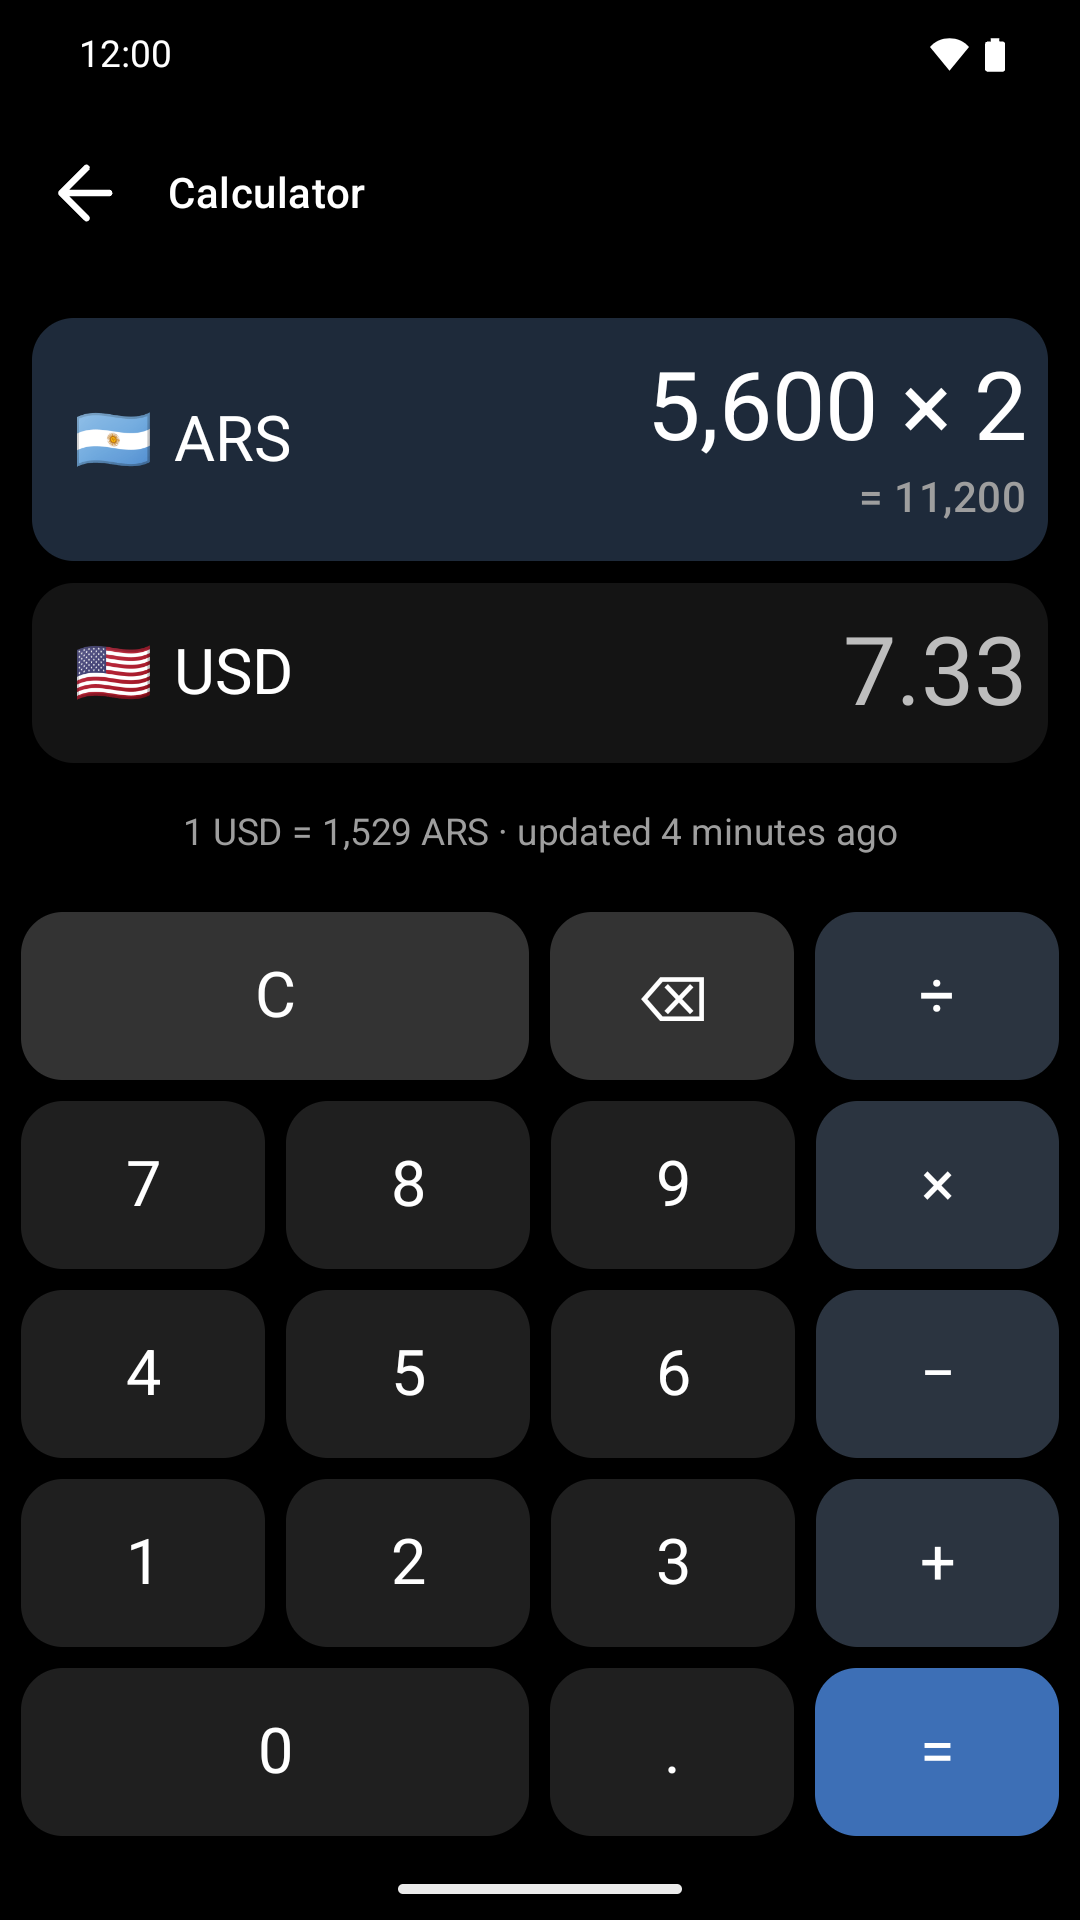
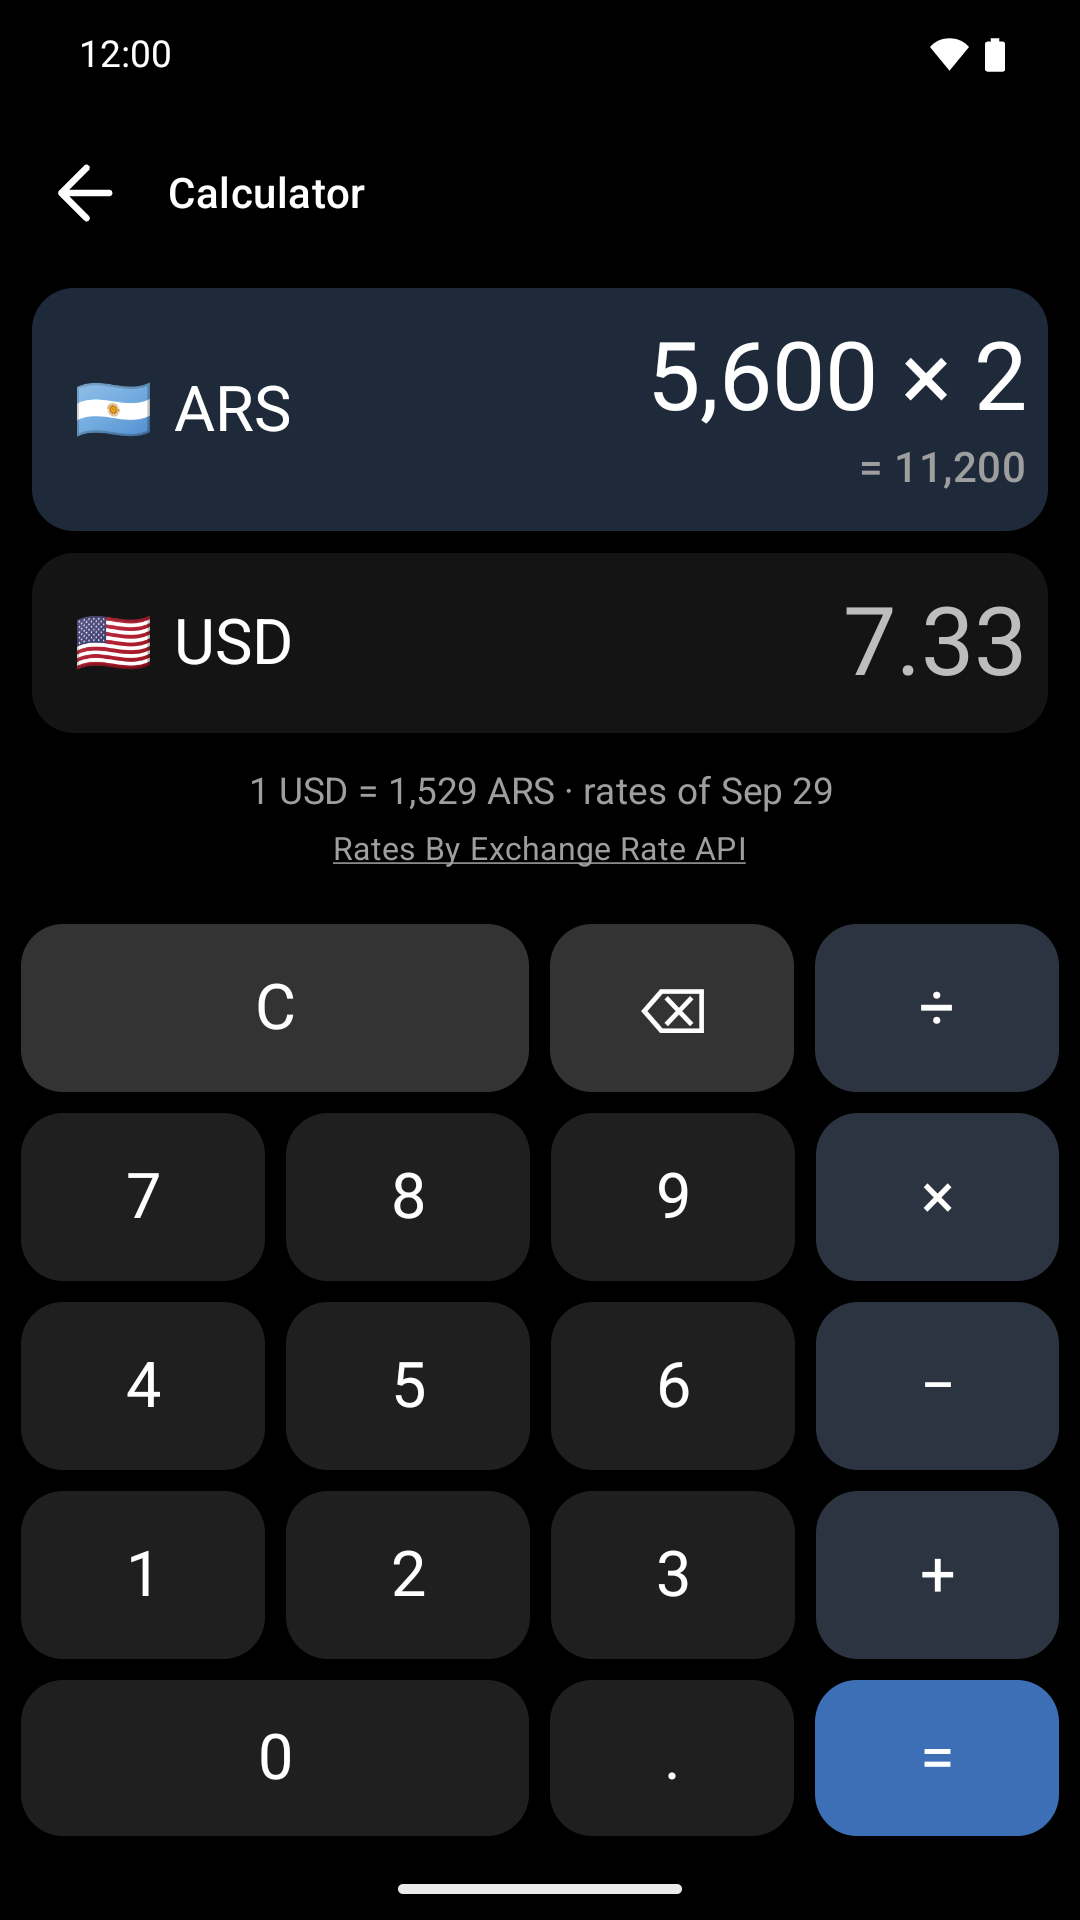
Retake the Play screenshots with the rate credit, and say how often rates are fetched
The screenshots were taken before the rate service was credited; retaken from
the 0.7.3 release, the sign, the receipt and the calculator now show "Rates By
Exchange Rate API", and the calculator the day the rates are of.

STORE.md said the rates are cached for six hours. They are now kept at least
that long and usually a day, until the service publishes the next table; the
listing, the storage justification and the host-permission justification say
so. The short description names the three places a conversion can go, as the
popup has offered since 0.7.0.

diff --git a/STORE.md b/STORE.md
@@ -50,7 +50,7 @@ prepared in this file.
 
 **Short description** (132 char limit)
 
-> Shows the prices on any web page in the currency you actually think in, inline, right next to the original.
+> Shows the prices on any web page in the currency you actually think in: beside the original, instead of it, or on hover.
 
 **Category** — Shopping
 
@@ -81,8 +81,9 @@ prepared in this file.
 >   page itself, and leaves a price alone rather than guess when it cannot tell.
 >   You can still say what "$" should mean, if you would rather decide.
 > • Recognizes currencies that are spelled out rather than signed (340 руб).
-> • Rates come from a public exchange-rate service and are cached for six
->   hours; refresh them yourself any time from the popup.
+> • Rates come from a public exchange-rate service, which publishes them once
+>   a day; the extension fetches each day's table once, and you can refresh it
+>   yourself any time from the popup.
 > • Found a shop it misses? "It didn't work here" keeps a note in a list only
 >   you can see, stored in your own browser — copy it out or open a GitHub
 >   issue with it when you want to.
@@ -119,7 +120,8 @@ prepared in this file.
 >    what a bare "$" should mean, whether conversion is switched on, and the
 >    sites the user excluded, by site name only.
 > 2. A cache of the exchange-rate table, so the extension does not refetch rates
->    on every page load. It is refreshed at most every six hours.
+>    on every page load. It is refreshed at most every six hours — usually once
+>    a day, when the rate service publishes new rates.
 > 3. The list of pages the user marked with "It didn't work here", so they can
 >    review, copy or clear it in the popup. It holds the page address, what the
 >    extension detected, and a few price-shaped strings it failed to convert.
@@ -141,7 +143,8 @@ endpoint reads as an omission about the broader one.
 > a public, USD-based exchange-rate table, which is what makes conversion
 > possible; every currency pair is derived from it as a cross rate. The request
 > carries no user data, no page data and no identifier, and the response is
-> cached locally for six hours.
+> cached locally for at least six hours — usually a day, until the service
+> publishes its next table.
 >
 > The content script runs on <all_urls> because prices appear on arbitrary
 > shopping, marketplace, listing and news sites, and the user cannot enumerate

diff --git a/PLAY.md b/PLAY.md
@@ -383,7 +383,7 @@ All in [`docs/play/`](docs/play), ready to upload.
   name, a one-line promise and the three ways in, on the icon's blues.
 - Both are rendered by [`tools/play-graphics.sh`](tools/play-graphics.sh) from
   headless Chrome; run it again after changing either.
-- **Phone screenshots** — 1080×1920, 9:16, from the release build on an emulator
+- **Phone screenshots** — 1080×1920, 9:16, from the 0.7.3 release build on an emulator
   whose display was set to that size, with the status bar in demo mode (12:00,
   full battery, Wi-Fi, no notifications). Prices in ARS, converted to USD. In
   the order to upload:
